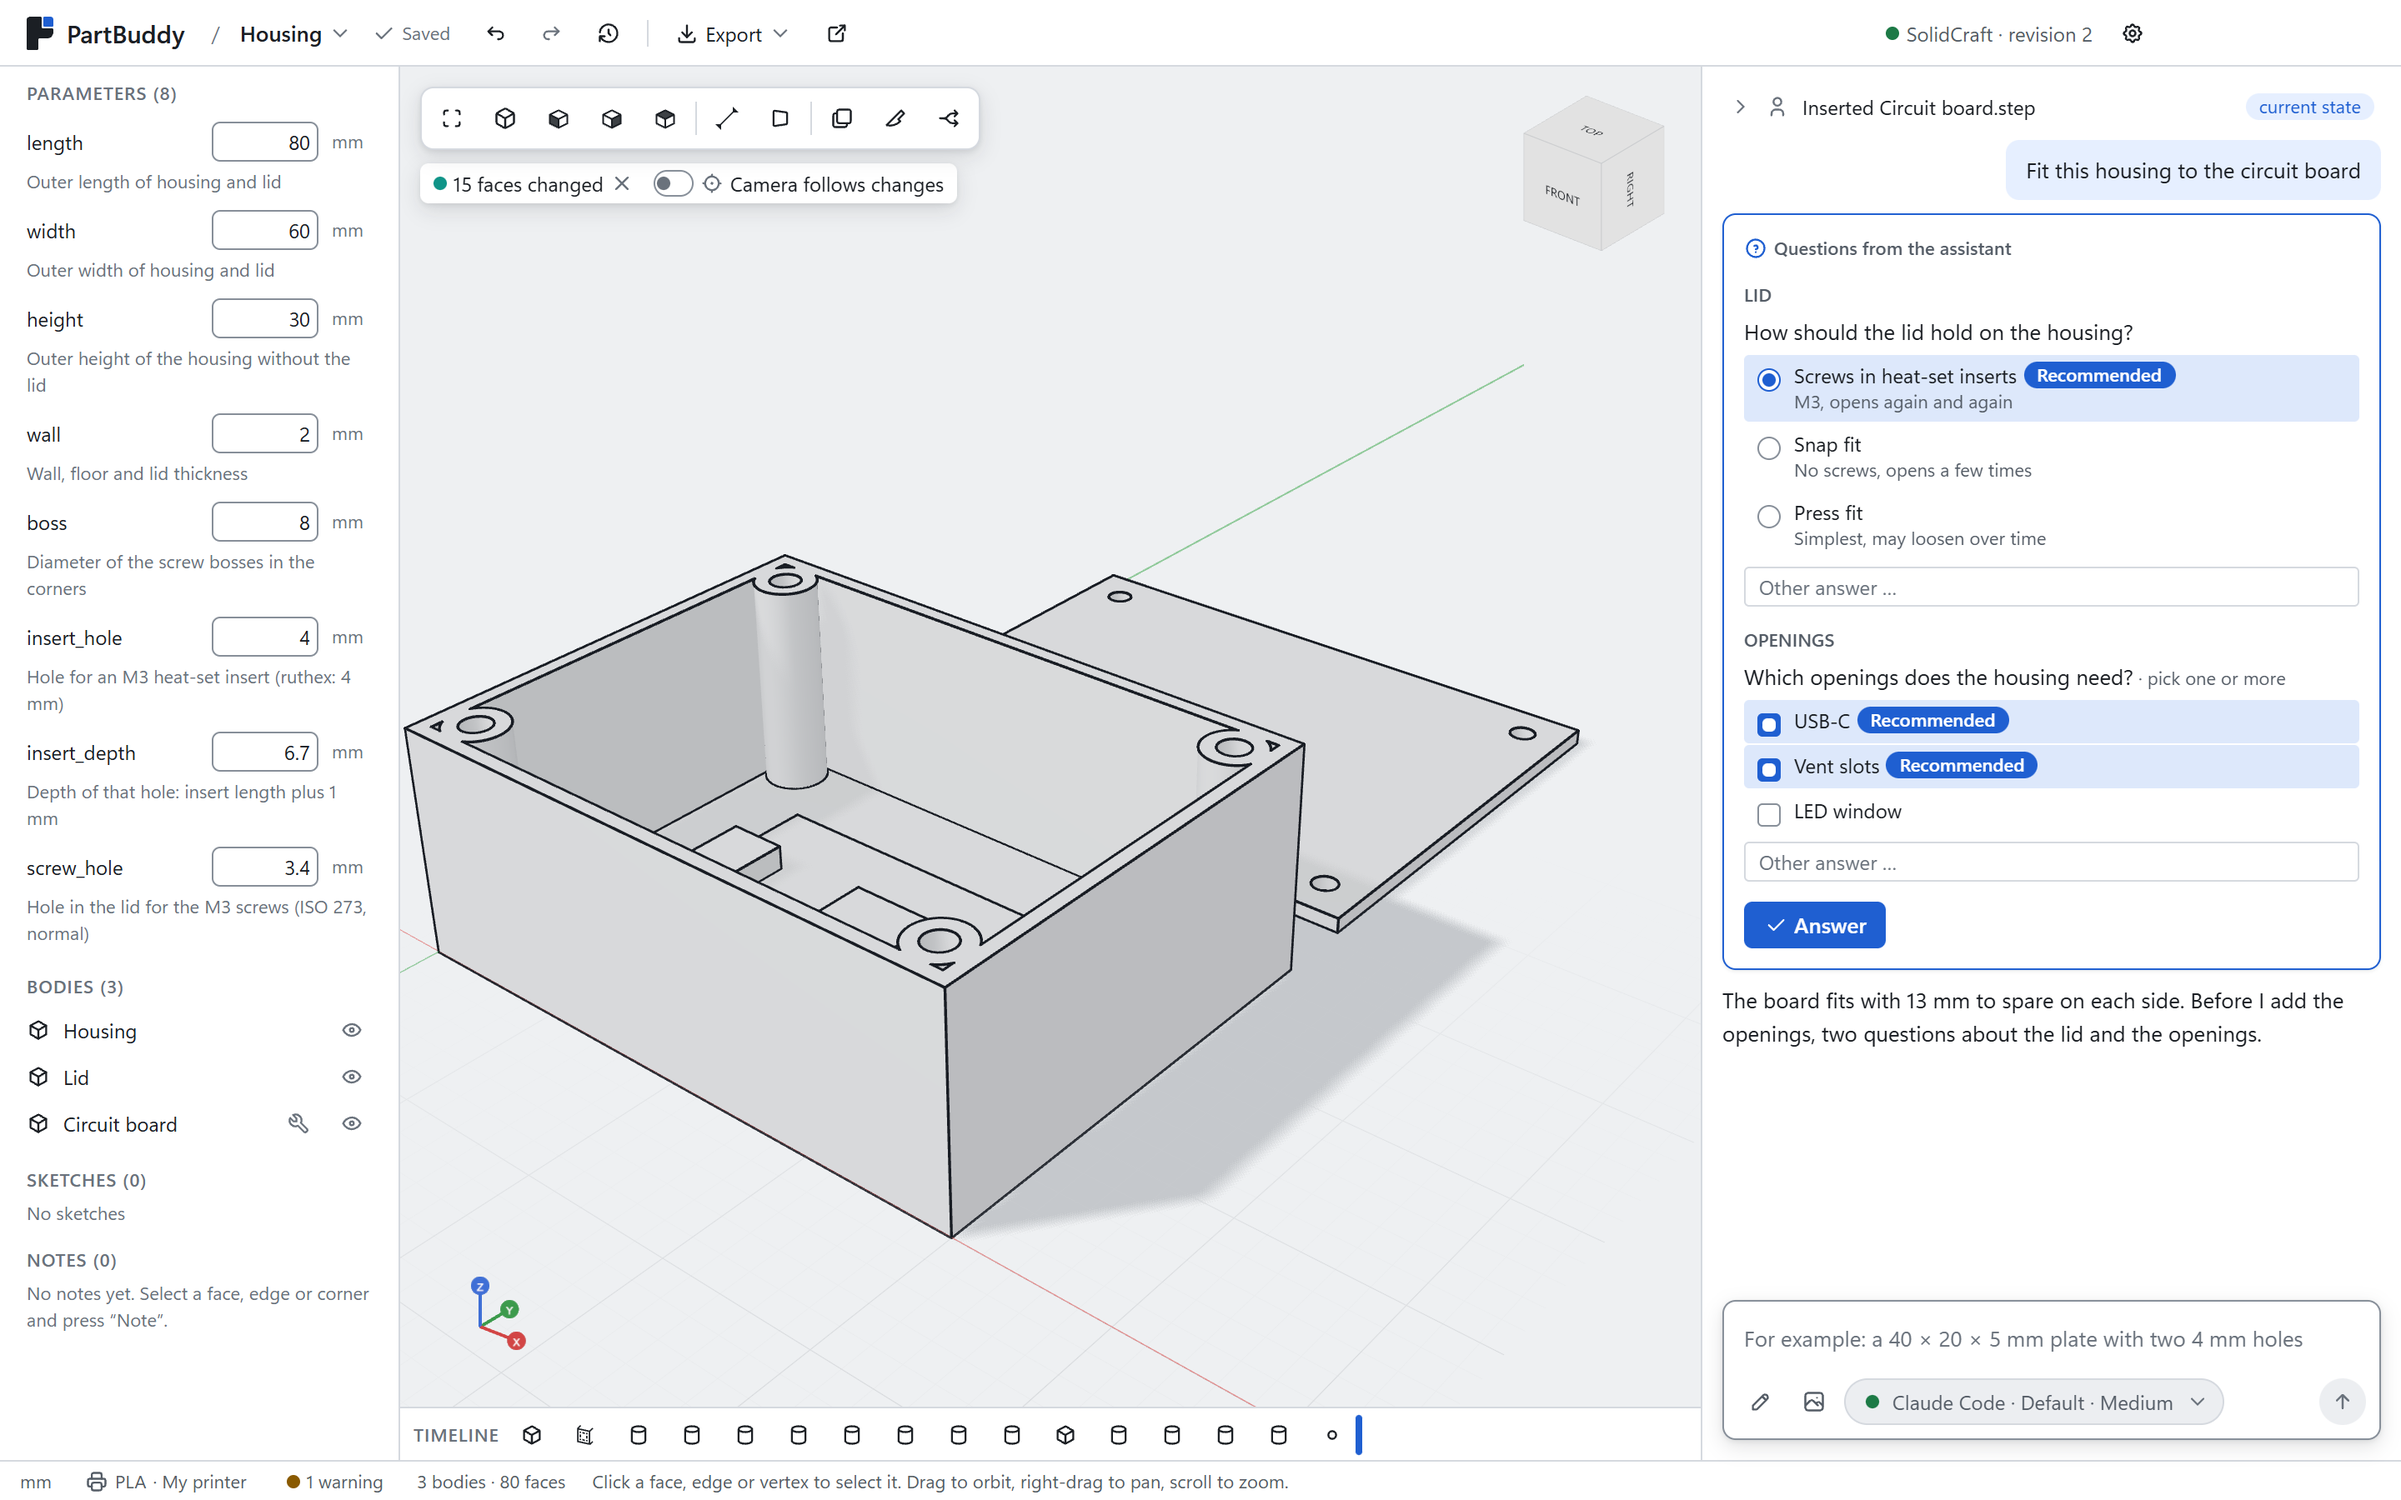
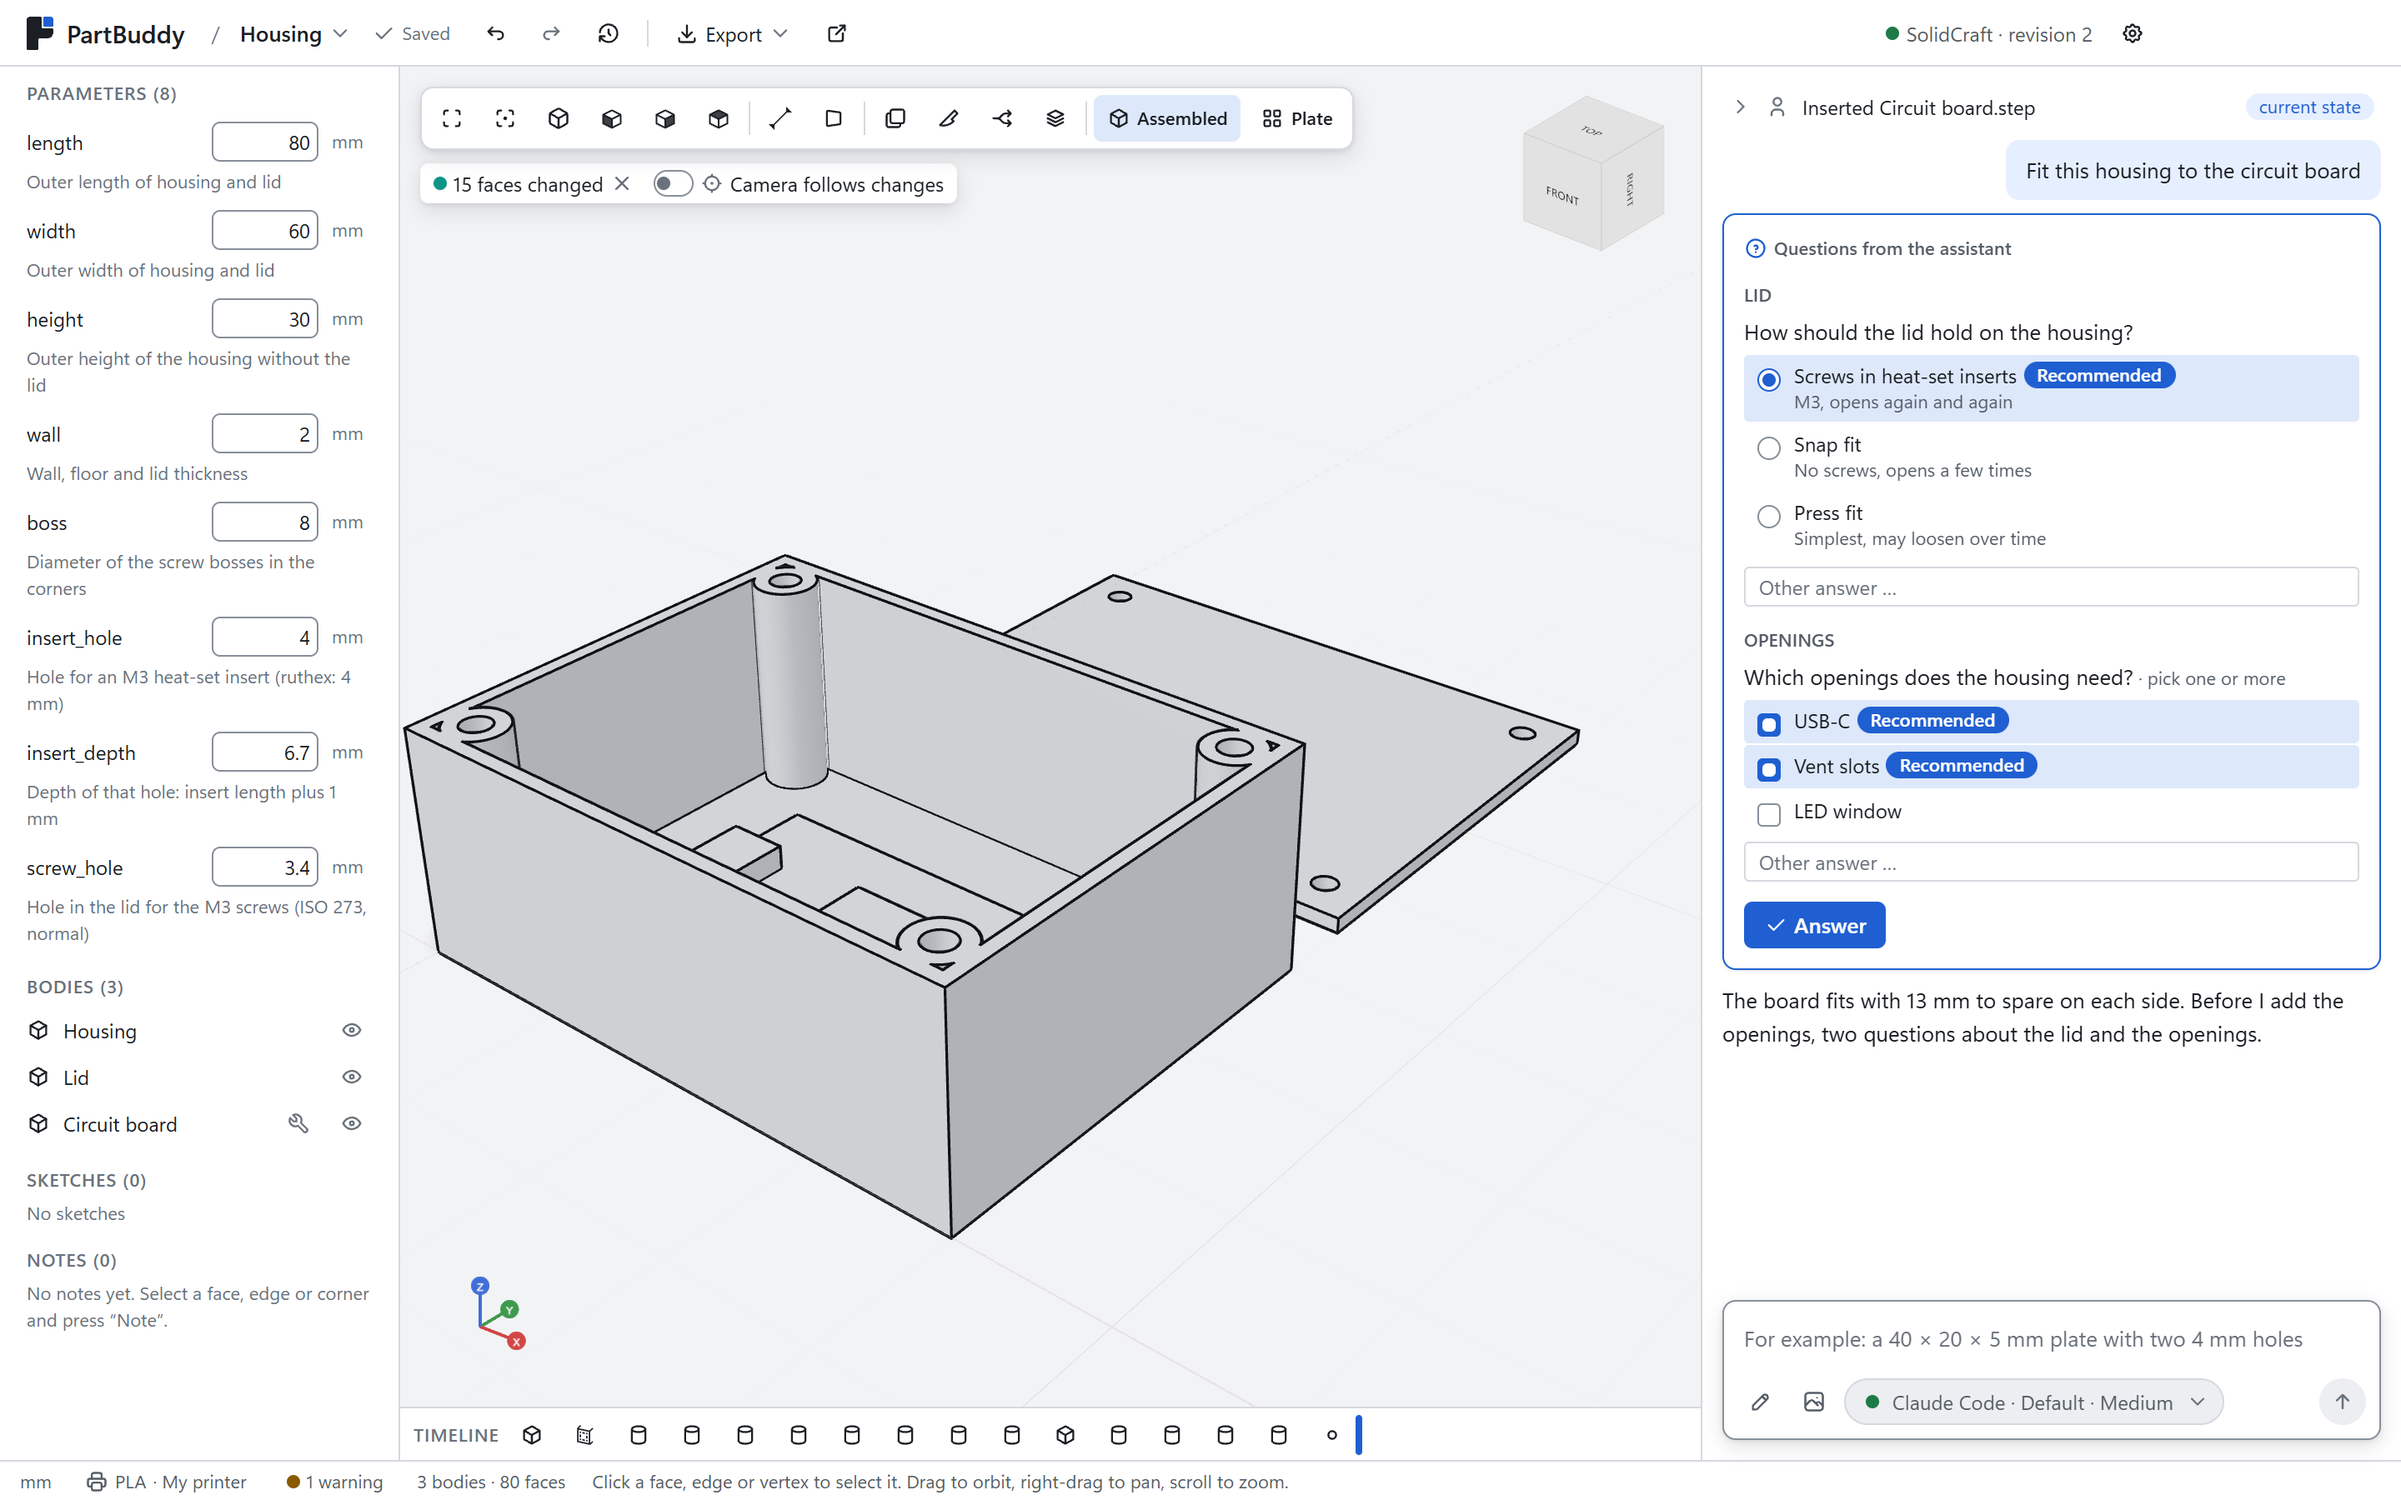
feat: plate view and assembly playback pictures, exploded view along the assembly

diff --git a/src/data/crops.ts b/src/data/crops.ts
@@ -18,6 +18,8 @@ export const crops: Record<string, Rect | { from: string; rect: Rect }> = {
   templates: [130, 90, 1180, 260],
   printready: [150, 300, 870, 580],
   explode: [240, 40, 780, 600],
+  plate: [240, 40, 780, 800],
+  assembly: [240, 40, 780, 800],
   section: [240, 40, 780, 640],
   start: [130, 50, 1180, 590],
   versions: [380, 80, 680, 380],
